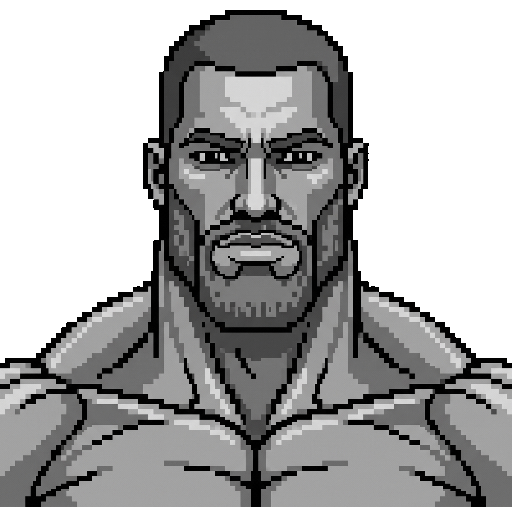
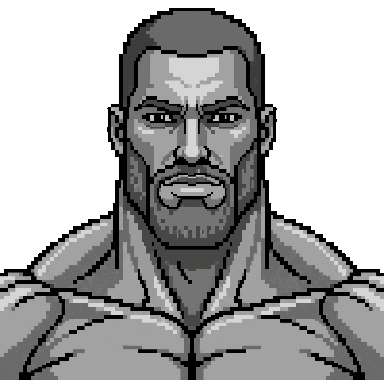
Add files via upload

diff --git a/zinc/src/render/lattice.ts b/zinc/src/render/lattice.ts
@@ -1,4 +1,5 @@
 import { CellAtlas, hexPath, type CellState } from "./cells";
+import { TileAtlas, tileVersion, type TileName } from "./tiles";
 import { charById, charImage } from "@/game/chars";
 import { riskScale } from "@/game/risk";
 
@@ -81,6 +82,7 @@ function seamColor(t: number): [number, number, number] {
 export class LatticeRenderer {
   private ctx: CanvasRenderingContext2D;
   private atlas: CellAtlas | null = null;
+  private tiles: TileAtlas | null = null;
   private cells = new Map<number, Cell>();
   private shards: Shard[] = [];
   private w = 0;
@@ -273,6 +275,7 @@ export class LatticeRenderer {
     r = Math.max(1.5, r);
     this.radius = r;
     this.atlas = new CellAtlas(r, this.dpr);
+    this.tiles = new TileAtlas(r, this.dpr);
 
     // Shape the occupied block to the canvas, not to whatever the capacity
     // grid happens to be. Since the radius cap landed, a half-full desktop
@@ -621,10 +624,63 @@ export class LatticeRenderer {
     ctx.restore();
   }
 
+  /**
+   * The plate face for the current stress, cross-faded so the ice degrades
+   * continuously instead of snapping between the four drawn stages. A plate
+   * that is breaking jumps straight to the shattered face.
+   */
+  private drawTileFace(
+    c: Cell,
+    tiles: TileAtlas,
+    stress: number,
+    alpha: number,
+    scale: number,
+    jx: number,
+    jy: number,
+  ): void {
+    const { ctx } = this;
+    const dw = tiles.w * scale;
+    const dh = tiles.h * scale;
+    const x = c.x - dw / 2 + jx;
+    const y = c.y - dh / 2 + jy;
+
+    const blit = (name: TileName, a: number): void => {
+      const img = tiles.get(name);
+      if (!img || a <= 0.01) return;
+      ctx.globalAlpha = alpha * a;
+      ctx.drawImage(img, x, y, dw, dh);
+    };
+
+    if (c.state === "dying") {
+      blit("crack", 1);
+    } else {
+      const t = stress * 2;
+      const step = Math.min(1, Math.floor(t));
+      blit(step === 0 ? "base" : "hairline", 1);
+      blit(step === 0 ? "hairline" : "heavy", t - step);
+    }
+
+    // The art is one material, so "you" needs its own mark on top of it.
+    if (c.state === "you") {
+      ctx.globalAlpha = alpha;
+      ctx.strokeStyle = "#3fe0d8";
+      ctx.lineWidth = Math.max(1, this.radius * 0.075);
+      hexPath(ctx, c.x + jx, c.y + jy, this.radius * scale * 0.97);
+      ctx.stroke();
+    }
+    ctx.globalAlpha = alpha;
+  }
+
   private drawCells(dt: number): void {
     const { ctx } = this;
     const atlas = this.atlas;
     if (!atlas) return;
+    // The faces decode after the first layout is already on screen, so the
+    // atlas rebakes itself once whenever more art has arrived.
+    if (this.tiles && this.tiles.version !== tileVersion && this.radius > 0) {
+      this.tiles = new TileAtlas(this.radius, this.dpr);
+    }
+    const tiles = this.tiles?.usable ? this.tiles : null;
 
     // Material stress on the perceptual scale: first hairlines below 2%
     // hazard, half the field visibly cracked by ~3%, violent from 5% up. The
@@ -683,6 +739,13 @@ export class LatticeRenderer {
       const dh = sprite.h * scale;
       ctx.drawImage(sprite.canvas, c.x - dw / 2 + jx, c.y - dh / 2 + jy + dy, dw, dh);
 
+      // The drawn plate face, laid over the procedural one so its glow and
+      // rim still frame the plate. Everyone shows the same stage of failure:
+      // the field shares one hazard, so it must read as one sheet of ice.
+      if (tiles && (inPlay || c.state === "dying")) {
+        this.drawTileFace(c, tiles, stress, alpha, scale, jx, jy + dy);
+      }
+
       // The character standing on the plate. Only while they are actually
       // standing: a shattered plate has nobody left to draw, and a cashed
       // ghost cell is the record of a departure. Skipped when plates get too
@@ -705,7 +768,10 @@ export class LatticeRenderer {
         }
       }
 
-      if (stress > 0.03 && inPlay && this.radius > 6) {
+      // Procedural fractures are the fallback only: when the drawn faces are
+      // present they carry the whole cracking gradient, and running both
+      // scribbles a second set of cracks over the art.
+      if (!tiles && stress > 0.03 && inPlay && this.radius > 6) {
         this.drawStress(c, stress, jx, jy);
       }
 

diff --git a/zinc/src/render/tiles.ts b/zinc/src/render/tiles.ts
@@ -1,0 +1,93 @@
+import { hexPath } from "./cells";
+
+/**
+ * Hand-drawn ice plate faces.
+ *
+ * Four stills live in `public/tiles/`, each the same hexagon at a different
+ * stage of failure. They are baked once per layout into hex-clipped canvases
+ * at the exact plate size, so the per-frame cost is a plain blit — the same as
+ * the procedural sprites they sit on top of.
+ *
+ *     base      pristine ice
+ *     hairline  first fractures
+ *     heavy     failing
+ *     crack     coming apart (death)
+ *
+ * Missing files simply leave the procedural plates in place, so the lattice
+ * never depends on art existing.
+ */
+
+export type TileName = "base" | "hairline" | "heavy" | "crack";
+
+const NAMES: TileName[] = ["base", "hairline", "heavy", "crack"];
+const images = new Map<TileName, HTMLImageElement>();
+let probed = false;
+/** Bumped as art arrives, so a built atlas knows it is stale. */
+export let tileVersion = 0;
+
+export function initTileAssets(): void {
+  if (probed) return;
+  probed = true;
+  const base = import.meta.env.BASE_URL || "/";
+  for (const name of NAMES) {
+    const img = new Image();
+    img.onload = () => {
+      images.set(name, img);
+      tileVersion++;
+    };
+    img.src = `${base}tiles/${name}.png`;
+  }
+}
+
+export function tilesReady(): boolean {
+  return images.has("base");
+}
+
+/** Plate faces baked to one radius. Rebuilt whenever the layout changes. */
+export class TileAtlas {
+  readonly version: number;
+  readonly w: number;
+  readonly h: number;
+  private baked = new Map<TileName, HTMLCanvasElement>();
+
+  constructor(r: number, dpr: number) {
+    this.version = tileVersion;
+    this.w = r * 2;
+    this.h = r * Math.sqrt(3);
+
+    for (const name of NAMES) {
+      const img = images.get(name);
+      if (!img) continue;
+      const canvas = document.createElement("canvas");
+      canvas.width = Math.ceil(this.w * dpr);
+      canvas.height = Math.ceil(this.h * dpr);
+      const ctx = canvas.getContext("2d")!;
+      ctx.scale(dpr, dpr);
+
+      ctx.save();
+      hexPath(ctx, this.w / 2, this.h / 2, r);
+      ctx.clip();
+
+      // Cover-fit: the art is drawn as the same flat-top hexagon, so this is
+      // near enough an exact overlay; the clip absorbs any overhang.
+      const s = Math.max(this.w / img.width, this.h / img.height);
+      const dw = img.width * s;
+      const dh = img.height * s;
+      // Crunchy when blown up, filtered when shrunk — nearest-neighbour
+      // downscaling of dense pixel art turns cracks into moire.
+      ctx.imageSmoothingEnabled = dw < img.width * 0.9;
+      ctx.drawImage(img, (this.w - dw) / 2, (this.h - dh) / 2, dw, dh);
+      ctx.restore();
+
+      this.baked.set(name, canvas);
+    }
+  }
+
+  get(name: TileName): HTMLCanvasElement | null {
+    return this.baked.get(name) ?? null;
+  }
+
+  get usable(): boolean {
+    return this.baked.has("base");
+  }
+}

diff --git a/zinc/src/App.tsx b/zinc/src/App.tsx
@@ -13,6 +13,7 @@ import { Tutorial, tutorialSeen } from "@/ui/Tutorial";
 import { CharSelect, WinnerOverlay } from "@/ui/Chars";
 import { initAudio } from "@/audio/sound";
 import { initCharAssets } from "@/game/chars";
+import { initTileAssets } from "@/render/tiles";
 import { DEFAULT_CONFIG } from "@zinc/engine";
 
 // Read from the engine, not restated. A second copy of the tick interval means
@@ -29,7 +30,10 @@ export default function App(): JSX.Element {
   const [tab, setTab] = useState<"roster" | "history">("roster");
 
   useEffect(() => client.subscribe(setSnap), [client]);
-  useEffect(() => initCharAssets(), []);
+  useEffect(() => {
+    initCharAssets();
+    initTileAssets();
+  }, []);
 
   // Browsers block audio until the first gesture, so arm it on any interaction.
   useEffect(() => {

diff --git a/zinc/src/game/chars.ts b/zinc/src/game/chars.ts
@@ -27,12 +27,12 @@ export interface CharacterDef {
 
 export const CHARACTERS: CharacterDef[] = [
   { id: "chad", label: "CHAD", emoji: "\u{1F5FF}", hue: 205 },
-  { id: "cuck", label: "CUCK", emoji: "\u{1F633}", hue: 330 },
+  { id: "soyjak", label: "SOYJAK", emoji: "\u{1F62E}", hue: 330 },
   { id: "wojak", label: "WOJAK", emoji: "\u{1F610}", hue: 0 },
   { id: "ansem", label: "ANSEM", emoji: "\u{1F98D}", hue: 275 },
   { id: "saylor", label: "SAYLOR", emoji: "\u{1F574}\u{FE0F}", hue: 30 },
   { id: "pepe", label: "PEPE", emoji: "\u{1F438}", hue: 110 },
-  { id: "wif", label: "WIF", emoji: "\u{1F436}", hue: 45 },
+  { id: "chud", label: "CHUD", emoji: "\u{1F621}", hue: 15 },
   { id: "bogdanoff", label: "BOGDANOFF", emoji: "\u{1F4DE}", hue: 185 },
 ];
 

diff --git a/zinc/src/ui/Chars.tsx b/zinc/src/ui/Chars.tsx
@@ -157,7 +157,7 @@ export function WinnerOverlay({ snap }: { snap: Snapshot }): JSX.Element | null 
       {w ? (
         <div className="relative flex flex-col items-center">
           <div className="win-slam">
-            <CharArt charId={w.charId} pose="win" size={104} />
+            <CharArt charId={w.charId} pose="win" size={168} />
           </div>
           <div
             className="display win-rise mt-3 text-[15px] font-bold tracking-[0.22em]"
